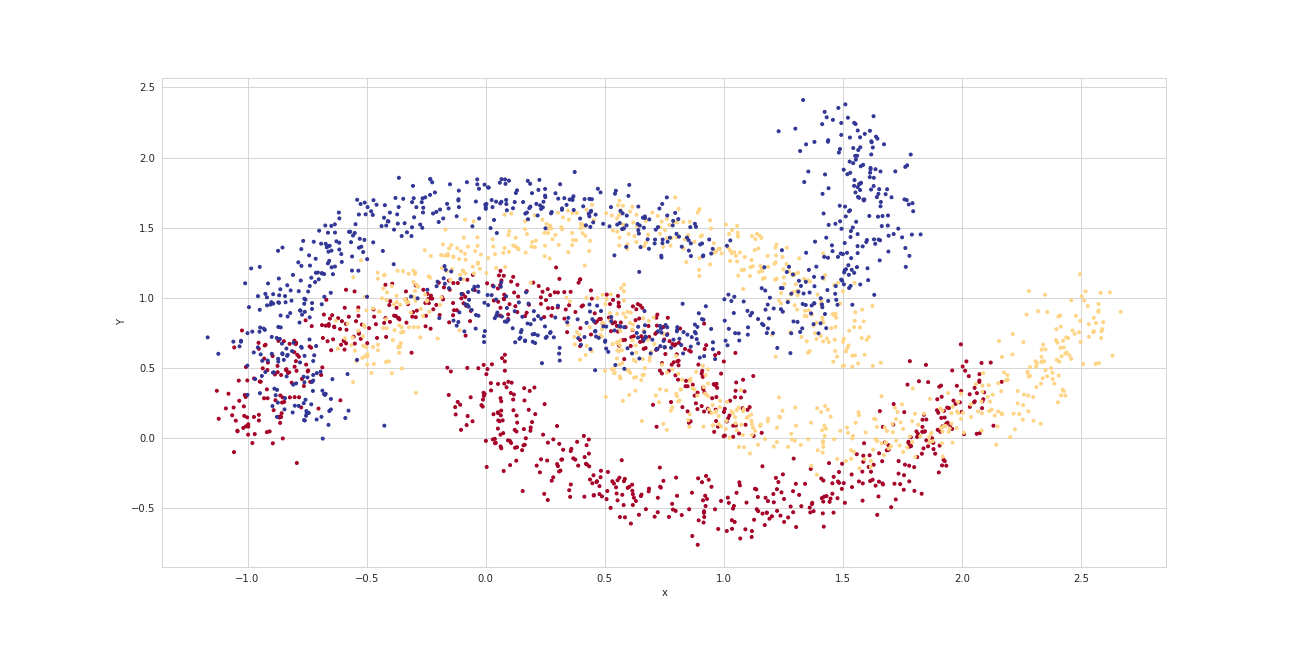
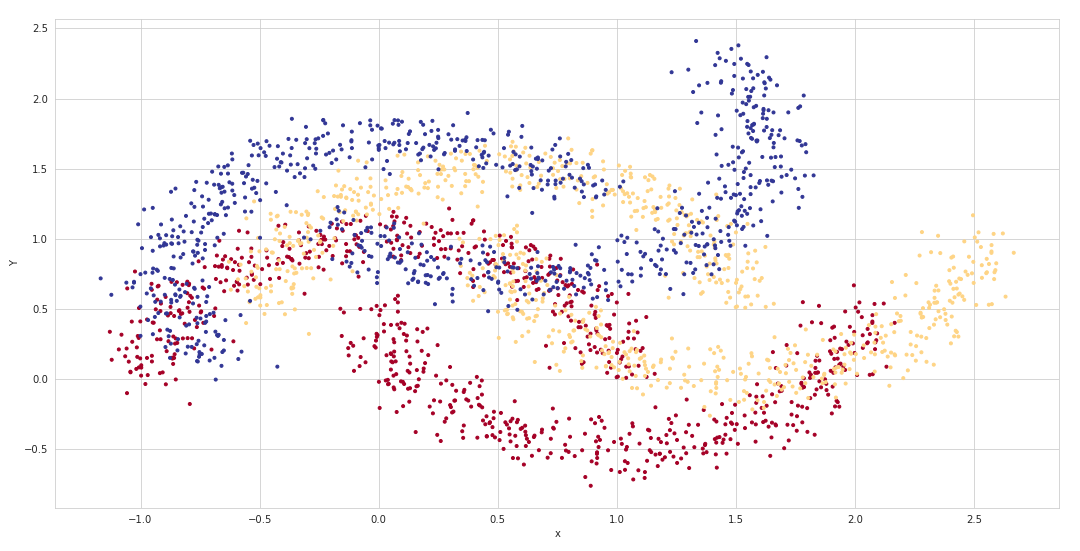
added images and little modifications

diff --git a/docs/report.tex b/docs/report.tex
@@ -313,7 +313,7 @@ The accuracy is simply computed as the ratio between the number of well classifi
 and the total number of points in the test set.
 
 \subsection {Simulations details}
-In the very first simulation, different FL settset ups are compared with the aggregated one.
+In the very first simulation, different FL set ups are compared with the aggregated one.
 The number of epochs (federated epochs for FL set ups, "standard" epochs for the aggregated 
 model) is fixed to 1000 for every set up, in order to compare easily the performances 
 against the epochs.
@@ -337,7 +337,10 @@ number of clients chosen to distribute the dataset.
 The last simulation attemps to better understand the TL ability of such a FL setting.
 In order to do this, different 8 clients FL set ups are compared.
 This time different FL set ups carry very different clients, in fact a portion of the clients 
-is transformed using the rotation or the traslation transformation defined above.
+is transformed using the traslation transformation defined above with $(dx, dy)=(0.2, 0.2)$.
+There were taken 8 simulation with the 8 different proportion between traslated and standard 
+dataset, from $1/8$ to $8/8$.
+An equivalent simulation was done using the rotation transformation with $\theta=\pi/5$.
 The wideness of the confidence interval in the mean losses and mean accuracies 
 plots of these FL set ups should give information on the TL ability, at least in 
 comparison w.r.t. the other FL set ups.
@@ -350,12 +353,35 @@ ups, "standard" epochs for the aggregated model).
 Moreover, to have a general, and more informative, idea of the performnce of the whole FL 
 set ups, the mean values of the losses and the accuracies of all the clients in every FL 
 set up are computed.
-A confidence interval, that covers a confidence level of $95\%$, is then associated to 
-these mean values, in order to give a more complete representation.
+A confidence interval, that covers a confidence level of $68\%$, i.e. standard deviation
+was taken, is then associated to these mean values, in order to give a more complete 
+representation.
 
 The very first result to notice is that the aggregated model has a preatty faster convergence,
-for the loss and the accuracy, w.r.t. any other FL set up.
-More the FL set up is distributed, slower is the convergence, as Fig.\ref{} shows.
+for both the loss and the accuracy, w.r.t. any other FL set up.
+More the FL set up is distributed, slower is the convergence, as Fig.\ref{fig3}-\ref{fig4} show, and 
+higher is the standard deviation between the clients.
+The standard deviations are expected to tend to zero as the number of epochs increses.
+A useful comparison is shown by Fig.\ref{fig5}, underlining, using the final decision 
+boundaries, the fact that with only 1000 federated epochs, the FL setting distributed 
+between 8 clients is far from the aggregated one.
+
+As Fig.\ref{fig6}-\ref{fig7} show, the general setting changes, in fact increasing the number of local epochs 
+at clients' place make the learning curves faster than before.
+One can notice that somewhere in the plot, FL settings with an higher number of clients 
+outperforms others with a lower number of clients.
+
+The last analysis, which tries to seek the TL ability of FL setting, shows that the 
+set ups which perform better are those which are more mixed up.
+The simulation that used the rotation transformation is almost inconclusive, since the 
+convergence is not reach in many set ups, as shown by Fig.\ref{fig8}-\ref{fig9}.
+However Fig.\ref{fig9} shows the general behaviour mentioned previously.
+The simulation that used the traslation transformation has many set ups, which nearly reach 
+the convergence, describe better the general behavoiur noticed.
+As Fig.\ref{fig10}-\ref{fig11} show, the worst performances are those of the FL settings with 
+7 and 8 clients with trasformed datasets, then set ups with 1 and 2 clients with trasformed 
+datasets follow.
+
 
 %###############################################
 \section {Figures}
@@ -375,6 +401,67 @@ More the FL set up is distributed, slower is the convergence, as Fig.\ref{} show
         The yellow dots represent the traslated dataset using $dx=0.5$ and $dy=0.5$}
     \label{fig2}
 \end{figure}
+\begin{figure}[!ht]
+    \centering
+        \includegraphics[width=0.95\textwidth, keepaspectratio]{images/loss_red_same.png}
+    \caption{}
+    \label{fig3}
+\end{figure}
+\begin{figure}[!ht]
+    \centering
+        \includegraphics[width=0.95\textwidth, keepaspectratio]{images/accuracy_red_same.png}
+    \caption{}
+    \label{fig4}
+\end{figure}
+\begin{figure}[!ht]
+    \centering
+    \subfloat[]{
+        \includegraphics[width=0.45\textwidth, keepaspectratio]{images/db_single.png}
+    }
+    \subfloat[]{
+        \includegraphics[width=0.45\textwidth, keepaspectratio]{images/db_distributed.png}
+    }
+    \caption{client8}
+    \label{fig5}
+\end{figure}
+\begin{figure}[!ht]
+    \centering
+        \includegraphics[width=0.95\textwidth, keepaspectratio]{images/loss_red_adv.png}
+    \caption{}
+    \label{fig6}
+\end{figure}
+\begin{figure}[!ht]
+    \centering
+        \includegraphics[width=0.95\textwidth, keepaspectratio]{images/accuracy_red_adv.png}
+    \caption{}
+    \label{fig7}
+\end{figure}
+\begin{figure}[!ht]
+    \centering
+        \includegraphics[width=0.95\textwidth, keepaspectratio]{images/loss_red_TL2.png}
+    \caption{}
+    \label{fig8}
+\end{figure}
+\begin{figure}[!ht]
+    \centering
+        \includegraphics[width=0.95\textwidth, keepaspectratio]{images/accuracy_red_TL2.png}
+    \caption{}
+    \label{fig9}
+\end{figure}
+\begin{figure}[!ht]
+    \centering
+        \includegraphics[width=0.95\textwidth, keepaspectratio]{images/loss_red_TL1.png}
+    \caption{}
+    \label{fig10}
+\end{figure}
+\begin{figure}[!ht]
+    \centering
+        \includegraphics[width=0.95\textwidth, keepaspectratio]{images/accuracy_red_TL1.png}
+    \caption{}
+    \label{fig11}
+\end{figure}
+
+
 
 %###############################################
 
